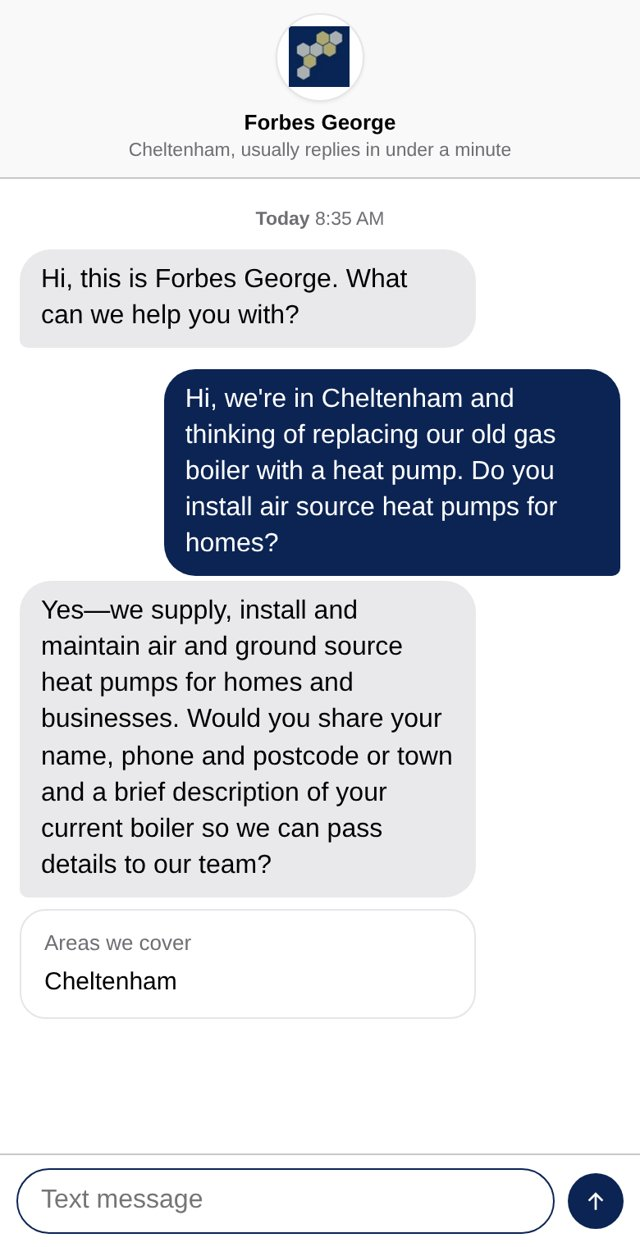
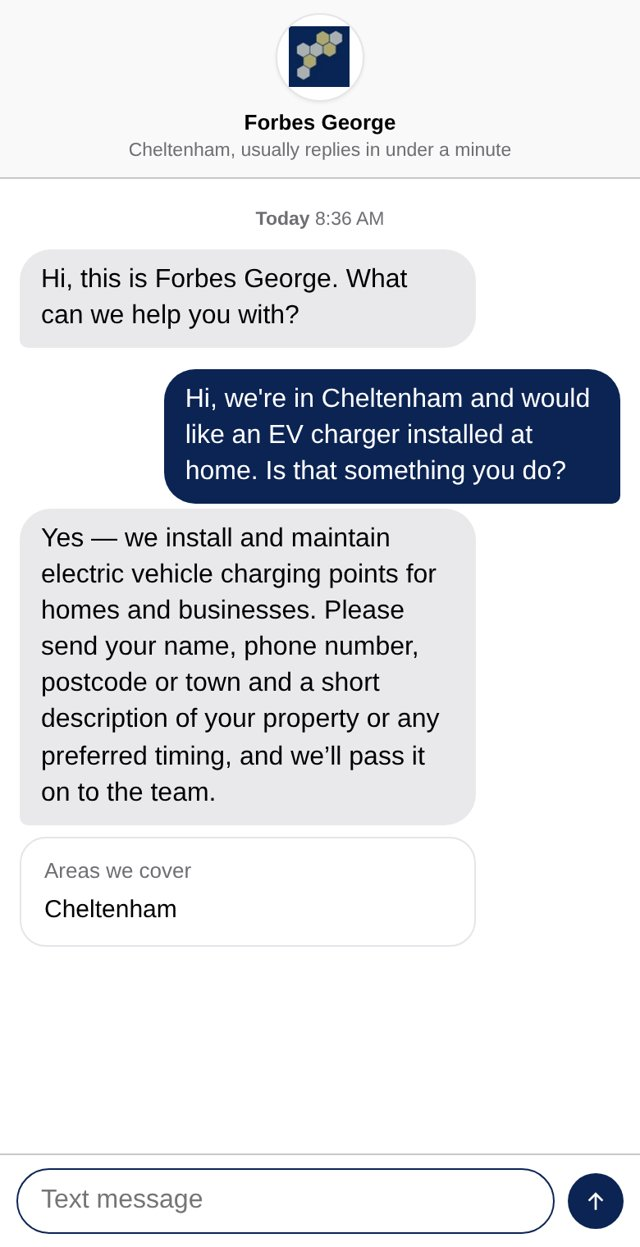
forbes-george chat

Changed region(s): [[0.0625, 0.3047, 0.9688, 0.7923]]

diff --git a/forbes-george/index.html b/forbes-george/index.html
@@ -7,7 +7,7 @@ img.shot{max-width:360px;margin:0 auto 22px}figcaption{text-align:center;font-we
 a.btn{display:block;max-width:420px;margin:0 auto;text-align:center;background:#1f66e0;color:#fff;text-decoration:none;font-weight:700;padding:15px;border-radius:14px;font-size:16px}
 small{display:block;text-align:center;color:#7a8596;margin-top:16px;font-size:12.5px}</style></head><body><main>
 <h1>A website assistant for Forbes George</h1><p>It answers your website visitors instantly, day or night, using only what's on your website, and sends you their name, number and what they need.</p><img class="shot" src="screenshot.jpg" alt="Preview of the assistant on your website">
-<a class="btn" href="https://wpsani.store/demo/d/f4f247dc">Try it live</a>
+<a class="btn" href="https://wpsani.store/demo/d/771000b7">Try it live</a>
 <small>Private demo built by Federico Sanua, independent web developer, sanuafederico@gmail.com</small>
-<img src="https://wpsani.store/demo/p/f4f247dc.gif" width="1" height="1" alt="" style="position:absolute;left:-9999px">
+<img src="https://wpsani.store/demo/p/771000b7.gif" width="1" height="1" alt="" style="position:absolute;left:-9999px">
 </main></body></html>
